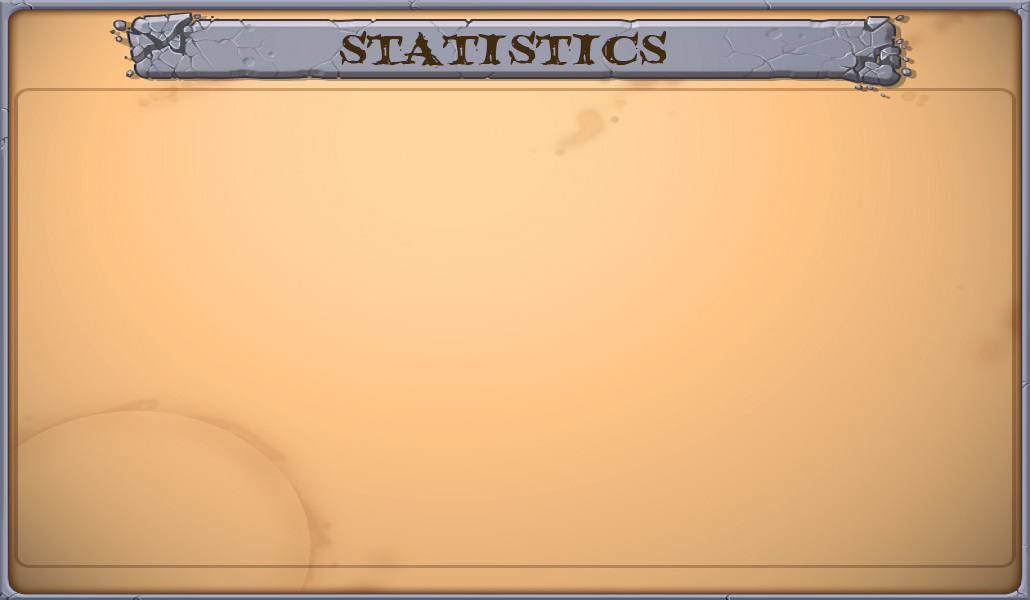
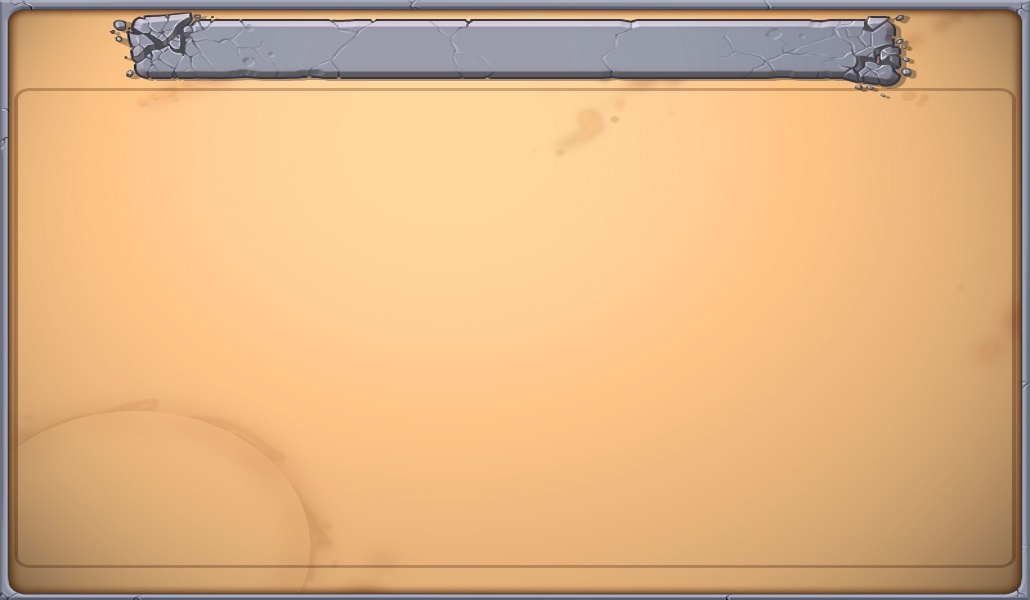
feat: add titles to stats and levels screens

Changed region(s): [[0.3107, 0.06, 0.6524, 0.12]]

diff --git a/src/models/StatisticsScreen.ts b/src/models/StatisticsScreen.ts
@@ -1,7 +1,7 @@
 import { ScreenCreator } from './ScreenCreator';
 import Engine from '../engine';
 import { DataService } from '../api-service/DataService';
-import { ISpriteNode, ITextNode } from '../engine/types';
+import { IImageNode, ISpriteNode, ITextNode } from '../engine/types';
 import { Stats } from '../types';
 
 const STATISTICS_SCREEN_LAYERS: Array<string> = ['statistics-screen_background', 'statistics-screen_elements', 'statistics-screen-data'];
@@ -132,7 +132,7 @@ export class StatisticsScreen extends ScreenCreator {
       const dh = 70;
       const img = this.engine.loader.files['assets/sprites/loading.png'] as HTMLImageElement;
       const pos = this.engine.vector(
-        (this.engine.size.x / 2) - (30 / 2),
+        (this.engine.size.x / 2) - (70 / 2),
         (this.engine.size.x / 4),
       );
       this.loadingNode = this.engine.createNode({
@@ -160,7 +160,7 @@ export class StatisticsScreen extends ScreenCreator {
 
   private createNodes(): void {
     // BACKGROUND COLOR
-    const background = this.engine.createNode({
+    this.engine.createNode({
       type: 'RectNode',
       position: this.engine.vector(0, 0),
       size: this.engine.vector(this.engine.size.x, this.engine.size.y),
@@ -172,7 +172,7 @@ export class StatisticsScreen extends ScreenCreator {
     const BACKGROUND_IMG = this.engine
       .loader.files['assets/images/interface/settingBackground.jpg'] as HTMLImageElement;
 
-    const backgroundImg = this.engine.createNode({
+    this.engine.createNode({
       type: 'ImageNode',
       size: this.engine.vector(this.engine.size.x, this.engine.size.y),
       position: this.engine.vector(
@@ -183,11 +183,25 @@ export class StatisticsScreen extends ScreenCreator {
       img: BACKGROUND_IMG,
     });
 
+    // SCREEN TITLE
+    const TITLE_IMG = this.engine
+      .loader.files['assets/images/interface/StatsTitle.png'] as HTMLImageElement;
+
+    this.engine.createNode({
+      type: 'ImageNode',
+      size: this.engine.vector(this.engine.size.x, this.engine.size.y),
+      position: this.engine.vector(
+        (this.engine.size.x / 2) - (TITLE_IMG.width / 2), 27,
+      ),
+      layer: STATISTICS_SCREEN_LAYERS[0],
+      img: TITLE_IMG,
+    });
+
     // BUTTON CLOSE
     const BUTTON_IMG = this.engine
       .loader.files['assets/images/interface/Button.png'] as HTMLImageElement;
 
-    const buttonClose: any = this.engine.createNode({
+    const buttonClose = this.engine.createNode({
       type: 'ImageNode',
       position: this.engine.vector(
         (this.engine.size.x / 2) - (BUTTON_IMG.width / 2),
@@ -196,9 +210,9 @@ export class StatisticsScreen extends ScreenCreator {
       size: this.engine.vector(this.engine.size.x, this.engine.size.y),
       layer: STATISTICS_SCREEN_LAYERS[1],
       img: BUTTON_IMG,
-    });
+    }) as IImageNode;
 
-    const textButtonClose: any = this.engine.createNode({
+    this.engine.createNode({
       type: 'TextNode',
       position: this.engine.vector(
         buttonClose.position.x + 16,

diff --git a/src/models/LevelSelectionScreen.ts b/src/models/LevelSelectionScreen.ts
@@ -47,6 +47,20 @@ export class LevelSelectionScreen extends ScreenCreator {
       img: BACKGROUND_IMG,
     });
 
+    // SCREEN TITLE
+    const TITLE_IMG = this.engine
+      .loader.files['assets/images/interface/AdventureTitle.png'] as HTMLImageElement;
+
+    this.engine.createNode({
+      type: 'ImageNode',
+      size: this.engine.vector(this.engine.size.x, this.engine.size.y),
+      position: this.engine.vector(
+        (this.engine.size.x / 2) - (TITLE_IMG.width / 2), 27,
+      ),
+      layer: LEVEL_SELECTION_SCREEN_LAYERS[0],
+      img: TITLE_IMG,
+    });
+
     // LEVEL CARDS
     const LEVEL_CARD = this.engine
       .loader.files['assets/images/interface/selectLevelIcon_notActive.png'] as HTMLImageElement;
